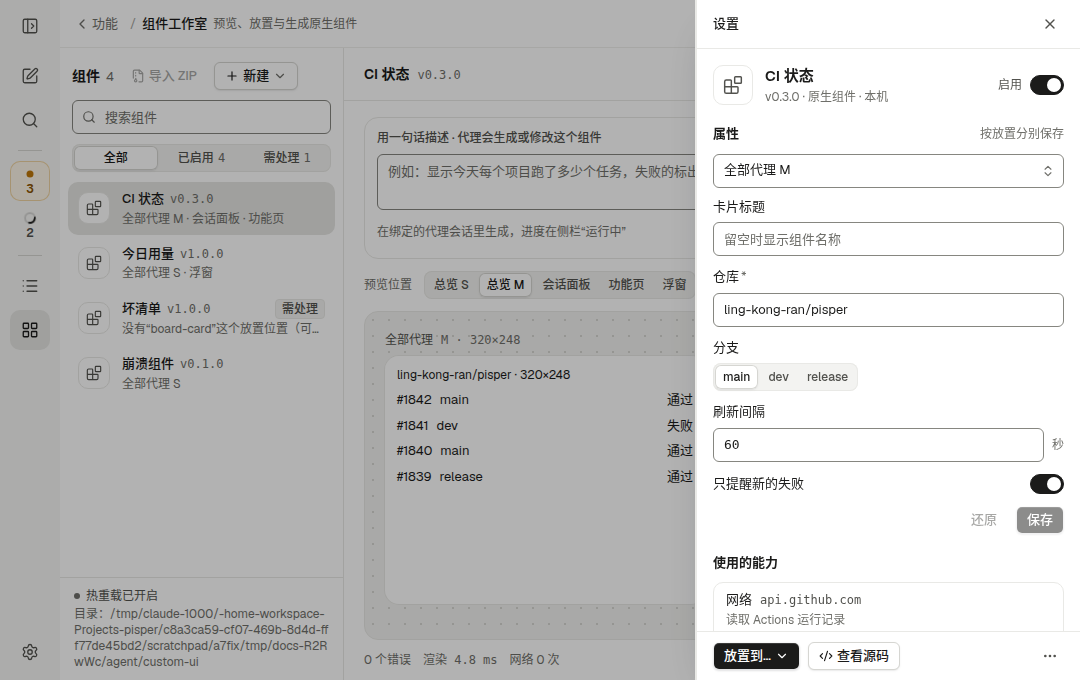
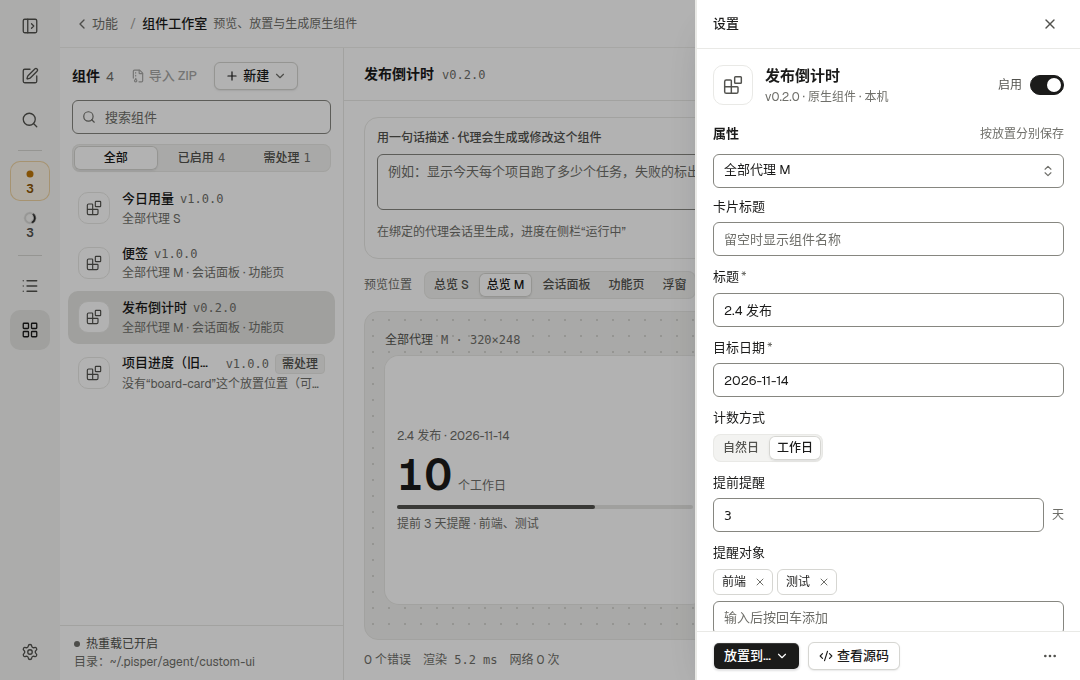
docs(design): A7 实现截图与对照页
目的
- 给 A7（原生组件核心闭环）补齐评审用的实现截图，对照页写清与规格 / 计划的差异、要等 A8 的部分和替负责人做的决定。

范围
- docs/design/built/：16 张 a7-*.png（工作室 1440 明 / 暗、1080 抽屉、新建菜单与模板、属性表单字段校验、旧格式组件；全部代理右栏 S / M 明 / 暗、1080“组件 N”弹层、检查器组件标签、功能 › 我的组件、功能页整页、浮窗；手机组件列表 / 详情 / 全部代理末尾组件卡）。
  - 拍法：生产构建 dist + 隔离 Runtime（临时数据目录，结束删除）+ 虚构数据，headless Chromium、1x、zh-CN、不替换 HOME。今日用量、便签由内置模板生成；发布倒计时是为属性表单写的虚构组件；组件目录一行在浏览器边界改写为示例路径 ~/.pisper/agent/custom-ui。
  - 删除（git rm）a7-fix 时拍的 9 张旧名截图（a7-overview-1440-light / dark、a7-overview-1080-popover-light、a7-session-panel-1440-light、a7-feature-page-1440-light、a7-phone-list / detail / overview-end-light、a7-studio-bad-manifest-1440-light）：已由新名截图取代，且其中带有本机临时目录路径与真实仓库名。同名的 3 张（studio-1440 明 / 暗、1080 抽屉）重拍覆盖。
- docs/design/index.html：
  - “方向 A · A7 已实现（组件核心闭环）”一节重写：拍法说明、三组效果图 / 设计稿与实现对照、规格定的差异（琥珀只标这些）、规格修订清单、要等 A8 的（导入信任确认、版本回滚、导出、能力台账、回收站恢复）、截图时发现的已知问题、替负责人做的决定。
  - 原“组件工作室”规划一节改为折叠的“已被取代：第 5 期组件工作室规划（A7 取代）”，过时说法在折叠区内注明 A7 的实际做法。
  - 页首与 A2 / A3 / A4 / A6 各节里“等 A7”的说明改为“A7 已做”；进度表 A7 为“已完成（本地）”。

验证
- 所有图片引用（src / data-full）存在，built/ 下没有未引用的 a7 图；section / details / div / ul / figure 标签配平；git diff --check 通过；docs 在 .prettierignore 中。
- 截图脚本无页面错误；脚本断言：模板创建与 9 个实例 201、旧 iframe 组件已移进回收站且列表里没有、属性越界被 Runtime 拒绝并显示“超出允许的范围”。
- 前置：npm run build 通过（entry static JS 304.30 kB gzip，预算 307.2 未放宽）；同批的修复提交 0a683359 跑过 npm run check、npm test（3071 项，3069 通过、0 失败、2 跳过）、test:components:ui（通过）。
- 未运行：纯文档提交不跑全量构建以外的检查；完整 test:ui、真机未运行。

风险
- 无运行时影响。截图约 1.9 MB。浮窗默认位置压住会话页发送按钮、检查器“+”被挤出可视区两项已知问题写在对照页，未在本提交修。
[…]

diff --git a/docs/design/index.html b/docs/design/index.html
@@ -133,9 +133,9 @@ dialog .bar button { font: inherit; color: #fff; background: rgb(255 255 255 / .
 <body>
 <div class="wrap">
   <header>
-    <div class="eyebrow">PISPER 界面重建 · 2026-10-31 · 方向 A 实施中（A1–A3 已完成）</div>
+    <div class="eyebrow">PISPER 界面重建 · 2026-10-31 · 方向 A 实施中（A1–A7 已完成，本地）</div>
     <h1>Pisper 整体设计</h1>
-    <p class="lede">界面设计评审用，不随 Pages 发布。最上面是整体重设计的四个方向（已选 A · Claude 式侧栏）；接着是方向 A 已经做出来的部分（A1+A2、A3、A4、A5、A6），效果图与实现并排；第 1–4 期的桌面截图、A1+A2 时期的看板泳道、A3 时的功能页与设置主区、第 4 期手机外壳收进“已被取代”的折叠区，组件一节在 A7 之前仍按原样。设计稿只作视觉参考，和规格冲突时以规格为准。点任意截图看大图。</p>
+    <p class="lede">界面设计评审用，不随 Pages 发布。最上面是整体重设计的四个方向（已选 A · Claude 式侧栏）；接着是方向 A 已经做出来的部分（A1+A2、A3、A4、A5、A6、A7），效果图与实现并排；第 1–4 期的桌面截图、A1+A2 时期的看板泳道、A3 时的功能页与设置主区、第 4 期手机外壳、A7 之前的组件规划收进“已被取代”的折叠区。设计稿只作视觉参考，和规格冲突时以规格为准。点任意截图看大图。</p>
     <div class="legend"><span>文件夹：drafts/ 设计稿（drafts/redesign/ 是四个新方向），built/ 已实现截图（a12- 开头是方向 A 的 A1+A2，a3- 开头是 A3）</span><span><span class="sw"></span>琥珀底的条目：按你的决定和设计稿不一样的地方</span></div>
   </header>
 
@@ -447,7 +447,7 @@ dialog .bar button { font: inherit; color: #fff; background: rgb(255 255 255 / .
     <ul class="notes">
       <li>“排队”分组和托盘里的排队行：要 Runtime 的 <code>sessionQueue</code>（A9）。</li>
       <li>“代理在问你 · 2 个问题”卡片和侧栏的“2 个问题”：要 <code>askUser</code>（A5）。</li>
-      <li>“思考 6.2s ›”与导出：要 Runtime 的思考用时与导出能力（A9）。检查器里的“覆盖率”组件标签：A7。</li>
+      <li>“思考 6.2s ›”与导出：要 Runtime 的思考用时与导出能力（A9）。检查器里的组件标签：A7 已做（“覆盖率”只是效果图里的示例组件，不内置）。</li>
       <li>品牌标记沿用现有的 ✦ 图标，效果图的紫色 P 只是出图时的占位。</li>
     </ul>
     <h3>替你做的决定（待你确认，完整列表见 decisions.md）</h3>
@@ -523,12 +523,12 @@ dialog .bar button { font: inherit; color: #fff; background: rgb(255 255 255 / .
     </ul>
     <h3>效果图里有、要等后面几期的</h3>
     <ul class="notes">
-      <li>右侧“已放置的组件”卡片和 1080–1279 宽时页头的“组件 N”按钮：A7（布局位置已留好）。</li>
+      <li>右侧“已放置的组件”卡片和 1080–1279 宽时页头的“组件 N”按钮：A7 已做，见“方向 A · A7 已实现”。</li>
       <li>“排队”分组、“升级 Vite 到 7 · 排队 #1”与“立即开始”：要 Runtime 的 <code>sessionQueue</code>（A9）；没有这个能力时不显示分组，不做假数据。</li>
       <li>“批准 · 2 个问题”、行内选项胶囊与逐个处理里的“1–4 回答”：要 <code>askUser</code>（A5）。</li>
       <li>设置主区内容（默认模型 / 思考强度 / 提供方列表、去掉重复的面包屑与大标题）：已在 A6 完成，见下方“A6 已实现”；效果图里的“辅助模型”Runtime 没有对应字段，没有做。</li>
       <li>功能页模板（居中 760 栏、“‹ 功能”在标题上方、工具行、列表行）：已在 A6 完成，见下方“A6 已实现”。</li>
-      <li>手机：“更多”改名“功能”、抽屉取代底部标签栏、手机全部代理：A4。“我的组件”里的实际放置：A7。</li>
+      <li>手机：“更多”改名“功能”、抽屉取代底部标签栏、手机全部代理：A4。“我的组件”里的实际放置：A7 已做。</li>
     </ul>
     <h3>替你做的决定（待你确认，完整列表见 decisions.md）</h3>
     <ul class="notes">
@@ -597,21 +597,24 @@ dialog .bar button { font: inherit; color: #fff; background: rgb(255 255 255 / .
 
   <section aria-labelledby="comp-h">
     <div class="sec-head">
-      <h2 id="comp-h">组件工作室</h2>
-      <p class="lede">一句话让代理生成或修改组件，预览放置位置，管理能力与版本。</p>
+      <h2 id="comp-h">已被取代：第 5 期组件工作室规划（A7 取代）</h2>
+      <p class="lede">A7 之前的组件规划与设计稿，只留作对照；其中几条在实施时被负责人改过（旧组件处置、放置名、入口），现状见下面“方向 A · A7 已实现”。设计稿仍在 A7 一节里与实现并排。</p>
     </div>
+    <details>
+      <summary>展开第 5 期的组件规划与设计稿（A7 前）</summary>
     <div class="shots">
       <figure><button type="button" data-full="drafts/desktop-components-light.png" aria-label="放大：组件工作室设计稿"><img src="drafts/desktop-components-light.png" alt="组件工作室设计稿：左侧组件列表、中间预览、右侧属性与版本" loading="lazy"></button>
-        <figcaption><span class="chip draft">设计稿</span>A7 / A8 实现（原第 5 期）</figcaption></figure>
+        <figcaption><span class="chip draft">设计稿</span>组件工作室（A7 / A8 的依据）</figcaption></figure>
     </div>
     <ul class="notes">
-      <li>三栏工作室是 A7 / A8（原第 5 期）；第 4 期只保证手机上组件是“列表 → 详情”两级可用。</li>
+      <li>三栏工作室是 A7 / A8（原第 5 期）；第 4 期只保证手机上组件是“列表 → 详情”两级可用。A7 已做三栏与手机列表 → 详情。</li>
       <li class="change">组件分两期：A7（原 5a）跑通“描述 → 代理生成 → 预览 → 填属性 → 放置”，A8（原 5b）做导入信任确认、能力撤销、版本回滚、导出与回收站。</li>
-      <li class="change">旧的 iframe 组件机制整体删除，内置“专注岛”一并删除；已安装的旧组件文件不自动删，工作室里标“旧版 · 已不再支持”，只能删除。</li>
+      <li class="change">旧的 iframe 组件机制整体删除，内置“专注岛”一并删除。当时写的是“旧组件文件不自动删，工作室标‘旧版 · 已不再支持’”；A7 实施时负责人改为启动时把旧组件原样移进回收站，界面不再出现“旧版”行。</li>
       <li class="change">“新建”可以从空白开始，也可以从内置模板“今日用量”“便签”开始；模板只生成到工作室，不自动放到任何位置。看板上没放组件时不留空位。</li>
-      <li class="change">组件不固定在看板：看板、会话面板、更多页面、浮窗四种位置平级，新组件不自动放到任何地方，工作室没有“固定到看板”主按钮。</li>
+      <li class="change">组件不固定在看板：当时写的四种位置是看板、会话面板、更多页面、浮窗，A7 按 v2 定名为全部代理右栏（overview-card）、会话面板、功能 › 我的组件（feature-page）、浮窗；新组件不自动放到任何地方，工作室没有“固定到看板”主按钮。</li>
       <li class="change">手机上“组件”不再占底部标签，挪进“更多”。桌面标题栏退役后，“组件”入口在“功能”页磁贴与 <kbd>⌘K</kbd>，A3 移到“扩展 › 组件工作室”。</li>
     </ul>
+    </details>
   </section>
 
   <section aria-labelledby="dir-a4-built-h">
@@ -669,7 +672,7 @@ dialog .bar button { font: inherit; color: #fff; background: rgb(255 255 255 / .
     </ul>
     <h3>效果图里有、要等后面几期的</h3>
     <ul class="notes">
-      <li>“2 个问题”与选项胶囊、提问底部表单：A5。排队分组与“#1”：A9。会话菜单“导出”：A9。全部代理末尾的组件卡：A7。</li>
+      <li>“2 个问题”与选项胶囊、提问底部表单：A5。排队分组与“#1”：A9。会话菜单“导出”：A9。全部代理末尾的组件卡：A7 已做。</li>
       <li>会话顶栏右侧效果图是带角标的改动图标，实现一致；没有改动时那里是 ✎ 新任务。</li>
     </ul>
     <h3>替你做的决定（待你确认，完整列表见 decisions.md）</h3>
@@ -878,7 +881,7 @@ dialog .bar button { font: inherit; color: #fff; background: rgb(255 255 255 / .
     <h3>效果图里有、要等后面几期的</h3>
     <ul class="notes">
       <li>设置 › 模型的“辅助模型”一行：Runtime 没有生成标题 / 压缩上下文用的模型字段，不做假控件；要等 Runtime 加字段（未排期）。</li>
-      <li>组件工作室与“我的组件”整页仍用旧的共享页头：A7 重做组件时一起换。</li>
+      <li>组件工作室与“我的组件”整页仍用旧的共享页头：A7 已换成面包屑页头（“功能 / 组件工作室”“功能 / 我的组件”），手机详情的“‹ 功能”与“‹ 全部组件”两级返回留到共享页头退役。</li>
       <li>表单与对话框里的提交失败提示（AppError，约 40 处）仍是红字：留给 A9 或专门一批统一。</li>
       <li>定时任务离开页面时的未保存拦截：留给专门一批（收起 / 换行已经不丢草稿）。</li>
     </ul>
@@ -896,63 +899,97 @@ dialog .bar button { font: inherit; color: #fff; background: rgb(255 255 255 / .
 
   <section aria-labelledby="dir-a7-built-h">
     <div class="sec-head">
-      <h2 id="dir-a7-built-h">方向 A · A7 已实现（原生组件核心闭环）</h2>
-      <p class="lede">描述 → 代理生成 → 预览 → 填属性 → 放置；四种放置平级：全部代理右栏、会话面板、功能 › 我的组件、浮窗。旧 iframe 机制与专注岛已删除。</p>
+      <h2 id="dir-a7-built-h">方向 A · A7 已实现（组件核心闭环）</h2>
+      <p class="lede">描述 → 代理生成 → 预览 → 填属性 → 放置；四种放置平级：全部代理右栏、会话面板、功能 › 我的组件、浮窗。旧 iframe 机制与专注岛已删除。拍法：生产构建 + 隔离 Runtime + 虚构数据，headless Chromium、1x、zh-CN，桌面 1440 × 900 / 1080 × 680、手机 390 × 844（模拟手机 App，不是真机）。“今日用量”“便签”用内置模板生成，“发布倒计时”是为属性表单写的虚构组件；组件目录一行显示的是示例路径 <code>~/.pisper/agent/custom-ui</code>（截图时在浏览器边界改写，不暴露本机路径）。</p>
     </div>
     <h3>组件工作室</h3>
     <div class="shots pairs">
-      <figure><button type="button" data-full="drafts/desktop-components-light.png" aria-label="放大：组件工作室设计稿"><img src="drafts/desktop-components-light.png" alt="组件工作室设计稿：左侧组件列表、中间预览、右侧属性与版本" loading="lazy"></button>
+      <figure><button type="button" data-full="drafts/desktop-components-light.png" aria-label="放大：组件工作室设计稿：左侧组件列表、中间预览、右侧属性与版本"><img src="drafts/desktop-components-light.png" alt="组件工作室设计稿：左侧组件列表、中间预览、右侧属性与版本" loading="lazy"></button>
         <figcaption><span class="chip draft">设计稿</span>组件工作室</figcaption></figure>
-      <figure><button type="button" data-full="built/a7-studio-1440-light.png" aria-label="放大：实现：工作室 1440：进入时侧栏收成窄轨，284 组件库 | 工作台（提示词卡片、预览栏、1:1 预览框 320×248、状态栏）| 372 设置栏（属性表单、使用的能力、放置位置）"><img src="built/a7-studio-1440-light.png" alt="实现：工作室 1440：进入时侧栏收成窄轨，284 组件库 | 工作台（提示词卡片、预览栏、1:1 预览框 320×248、状态栏）| 372 设置栏（属性表单、使用的能力、放置位置）" loading="lazy"></button>
+      <figure><button type="button" data-full="built/a7-studio-1440-light.png" aria-label="放大：实现：工作室 1440：进入时侧栏收成窄轨；284 组件库（今日用量、便签来自内置模板，发布倒计时是虚构组件，旧格式组件标“需处理”）| 工作台（提示词卡片、预览栏、1:1 预览框 320×248、状态栏）| 372 设置栏（按放置分别保存的属性、使用的能力、吸底 [放置到… ▾] [查看源码]）"><img src="built/a7-studio-1440-light.png" alt="实现：工作室 1440：进入时侧栏收成窄轨；284 组件库（今日用量、便签来自内置模板，发布倒计时是虚构组件，旧格式组件标“需处理”）| 工作台（提示词卡片、预览栏、1:1 预览框 320×248、状态栏）| 372 设置栏（按放置分别保存的属性、使用的能力、吸底 [放置到… ▾] [查看源码]）" loading="lazy"></button>
         <figcaption><span class="chip built">已实现 · A7</span>1440 三栏，预览与卡片 1:1</figcaption></figure>
+      <figure><button type="button" data-full="drafts/desktop-components-dark.png" aria-label="放大：组件工作室设计稿（深色）"><img src="drafts/desktop-components-dark.png" alt="组件工作室设计稿（深色）" loading="lazy"></button>
+        <figcaption><span class="chip draft">设计稿</span>组件工作室（深色）</figcaption></figure>
       <figure><button type="button" data-full="built/a7-studio-1440-dark.png" aria-label="放大：实现：工作室（深色）"><img src="built/a7-studio-1440-dark.png" alt="实现：工作室（深色）" loading="lazy"></button>
         <figcaption><span class="chip built">已实现 · A7</span>工作室（深色）</figcaption></figure>
+      <figure><button type="button" data-full="built/a7-studio-new-light.png" aria-label="放大：实现：[新建 ▾]：空白组件… / 从模板开始：今日用量、便签；模板只建到工作室，不自动放到任何位置"><img src="built/a7-studio-new-light.png" alt="实现：[新建 ▾]：空白组件… / 从模板开始：今日用量、便签；模板只建到工作室，不自动放到任何位置" loading="lazy"></button>
+        <figcaption><span class="chip built">已实现 · A7</span>新建菜单与模板</figcaption></figure>
+      <figure><button type="button" data-full="built/a7-studio-props-light.png" aria-label="放大：实现：属性表单：字符串、分段（enum ≤4 项）、带单位的整数、标签（字符串数组）、开关；“提前提醒”填 45 超出 1–30，Runtime 拒绝并定位到字段“超出允许的范围”，[还原] [保存] 可用"><img src="built/a7-studio-props-light.png" alt="实现：属性表单：字符串、分段（enum ≤4 项）、带单位的整数、标签（字符串数组）、开关；“提前提醒”填 45 超出 1–30，Runtime 拒绝并定位到字段“超出允许的范围”，[还原] [保存] 可用" loading="lazy"></button>
+        <figcaption><span class="chip built">已实现 · A7</span>属性表单（Runtime 校验定位到字段）</figcaption></figure>
       <figure><button type="button" data-full="built/a7-studio-1080-drawer-light.png" aria-label="放大：实现：1080：设置栏改为右侧抽屉，[放置到… ▾] 与 [查看源码] 在抽屉底部；关闭后焦点回到 [设置]"><img src="built/a7-studio-1080-drawer-light.png" alt="实现：1080：设置栏改为右侧抽屉，[放置到… ▾] 与 [查看源码] 在抽屉底部；关闭后焦点回到 [设置]" loading="lazy"></button>
         <figcaption><span class="chip built">已实现 · A7</span>1080 设置抽屉</figcaption></figure>
-      <figure><button type="button" data-full="built/a7-studio-bad-manifest-1440-light.png" aria-label="放大：实现：manifest 写了旧放置名 board-card：列表行与错误清单显示中文说明“没有“board-card”这个放置位置（可选 …）”，不再是原始错误码"><img src="built/a7-studio-bad-manifest-1440-light.png" alt="实现：manifest 写了旧放置名 board-card：列表行与错误清单显示中文说明“没有“board-card”这个放置位置（可选 …）”，不再是原始错误码" loading="lazy"></button>
-        <figcaption><span class="chip built">已实现 · A7</span>坏 manifest 的中文说明</figcaption></figure>
+      <figure><button type="button" data-full="built/a7-legacy-component-light.png" aria-label="放大：实现：旧格式组件：manifest 还写着 v2 之前的放置名 board-card，列表标“需处理”，工作台与设置栏是中文说明“没有“board-card”这个放置位置（可选 …）”，预览区“组件暂时无法运行”；同一数据目录里的 iframe 旧组件“旧版天气”启动时已原样移进回收站，列表里没有它"><img src="built/a7-legacy-component-light.png" alt="实现：旧格式组件：manifest 还写着 v2 之前的放置名 board-card，列表标“需处理”，工作台与设置栏是中文说明“没有“board-card”这个放置位置（可选 …）”，预览区“组件暂时无法运行”；同一数据目录里的 iframe 旧组件“旧版天气”启动时已原样移进回收站，列表里没有它" loading="lazy"></button>
+        <figcaption><span class="chip built">已实现 · A7</span>旧格式组件与旧版组件</figcaption></figure>
     </div>
     <h3>四种放置</h3>
     <div class="shots pairs">
       <figure><button type="button" data-full="drafts/redesign/claude-sidebar/desktop-overview-light.png" aria-label="放大：效果图：全部代理"><img src="drafts/redesign/claude-sidebar/desktop-overview-light.png" alt="效果图：全部代理" loading="lazy"></button>
         <figcaption><span class="chip draft">效果图</span>全部代理</figcaption></figure>
-      <figure><button type="button" data-full="built/a7-overview-1440-light.png" aria-label="放大：实现：全部代理 1440：右侧 320 组件栏“已放置的组件”，卡片头由宿主画（名称 · 组件 · ⋯），内容区 M 320×248 / S 320×120；崩溃组件原位隔离；浮窗默认停在右下角，不压需要你的第一行"><img src="built/a7-overview-1440-light.png" alt="实现：全部代理 1440：右侧 320 组件栏“已放置的组件”，卡片头由宿主画（名称 · 组件 · ⋯），内容区 M 320×248 / S 320×120；崩溃组件原位隔离；浮窗默认停在右下角，不压需要你的第一行" loading="lazy"></button>
-        <figcaption><span class="chip built">已实现 · A7</span>全部代理右栏（浮窗在右下角）</figcaption></figure>
-      <figure><button type="button" data-full="built/a7-overview-1440-dark.png" aria-label="放大：实现：全部代理右栏（深色）"><img src="built/a7-overview-1440-dark.png" alt="实现：全部代理右栏（深色）" loading="lazy"></button>
+      <figure><button type="button" data-full="built/a7-overview-cards-1440-light.png" aria-label="放大：实现：全部代理 1440：右侧 320 栏“已放置的组件”：发布倒计时 M、今日用量 S、便签 M（可多实例），卡片头由宿主画（名称 · 组件 · ⋯），内容区 M 320×248 / S 320×120，列尾虚线“+ 放置组件”"><img src="built/a7-overview-cards-1440-light.png" alt="实现：全部代理 1440：右侧 320 栏“已放置的组件”：发布倒计时 M、今日用量 S、便签 M（可多实例），卡片头由宿主画（名称 · 组件 · ⋯），内容区 M 320×248 / S 320×120，列尾虚线“+ 放置组件”" loading="lazy"></button>
+        <figcaption><span class="chip built">已实现 · A7</span>全部代理右栏 S / M 组件卡</figcaption></figure>
+      <figure><button type="button" data-full="built/a7-overview-cards-1440-dark.png" aria-label="放大：实现：全部代理右栏（深色）"><img src="built/a7-overview-cards-1440-dark.png" alt="实现：全部代理右栏（深色）" loading="lazy"></button>
         <figcaption><span class="chip built">已实现 · A7</span>全部代理右栏（深色）</figcaption></figure>
-      <figure><button type="button" data-full="built/a7-overview-1080-popover-light.png" aria-label="放大：实现：1080 × 680：组件收进页头“组件 3”弹层，卡片保持 36 + 内容区的高度，弹层内部滚动"><img src="built/a7-overview-1080-popover-light.png" alt="实现：1080 × 680：组件收进页头“组件 3”弹层，卡片保持 36 + 内容区的高度，弹层内部滚动" loading="lazy"></button>
-        <figcaption><span class="chip built">已实现 · A7</span>1080 “组件 N”弹层（可滚动）</figcaption></figure>
-      <figure><button type="button" data-full="built/a7-session-panel-1440-light.png" aria-label="放大：实现：会话检查器：固定标签后是组件标签“CI 状态”与“+”，组件拿到检查器宽度"><img src="built/a7-session-panel-1440-light.png" alt="实现：会话检查器：固定标签后是组件标签“CI 状态”与“+”，组件拿到检查器宽度" loading="lazy"></button>
-        <figcaption><span class="chip built">已实现 · A7</span>会话面板组件标签</figcaption></figure>
-      <figure><button type="button" data-full="built/a7-feature-page-1440-light.png" aria-label="放大：实现：功能 › 我的组件整页：面包屑“功能 / 我的组件”，工具条只有组件名与“管理组件”，不再叠第二个返回"><img src="built/a7-feature-page-1440-light.png" alt="实现：功能 › 我的组件整页：面包屑“功能 / 我的组件”，工具条只有组件名与“管理组件”，不再叠第二个返回" loading="lazy"></button>
+      <figure><button type="button" data-full="built/a7-overview-cards-1080-light.png" aria-label="放大：实现：1080 × 680：右栏收进页头“组件 3”弹层，宽 344、内部滚动，卡片保持卡片头 + 内容区的高度"><img src="built/a7-overview-cards-1080-light.png" alt="实现：1080 × 680：右栏收进页头“组件 3”弹层，宽 344、内部滚动，卡片保持卡片头 + 内容区的高度" loading="lazy"></button>
+        <figcaption><span class="chip built">已实现 · A7</span>1080 “组件 N”弹层</figcaption></figure>
+      <figure><button type="button" data-full="drafts/redesign/claude-sidebar/extra-session-inspector-rail-light.png" aria-label="放大：效果图：会话检查器"><img src="drafts/redesign/claude-sidebar/extra-session-inspector-rail-light.png" alt="效果图：会话检查器" loading="lazy"></button>
+        <figcaption><span class="chip draft">效果图</span>会话检查器</figcaption></figure>
+      <figure><button type="button" data-full="built/a7-inspector-component-tab-light.png" aria-label="放大：实现：会话检查器：固定标签（改动 / 终端 / 文件 / 预览）后是组件标签“发布倒计时”“便签”，选中的组件拿到检查器宽度；两枚组件标签时标签行末的“+”被挤出可视区（已知问题，见下）"><img src="built/a7-inspector-component-tab-light.png" alt="实现：会话检查器：固定标签（改动 / 终端 / 文件 / 预览）后是组件标签“发布倒计时”“便签”，选中的组件拿到检查器宽度；两枚组件标签时标签行末的“+”被挤出可视区（已知问题，见下）" loading="lazy"></button>
+        <figcaption><span class="chip built">已实现 · A7</span>检查器组件标签</figcaption></figure>
+      <figure><button type="button" data-full="drafts/redesign/claude-sidebar/extra-features-light.png" aria-label="放大：效果图：功能索引"><img src="drafts/redesign/claude-sidebar/extra-features-light.png" alt="效果图：功能索引" loading="lazy"></button>
+        <figcaption><span class="chip draft">效果图</span>功能索引</figcaption></figure>
+      <figure><button type="button" data-full="built/a7-features-my-components-light.png" aria-label="放大：实现：功能索引末尾“我的组件”：放到功能页的组件（发布倒计时、便签）各一张卡片，最后是虚线“+ 放置组件”"><img src="built/a7-features-my-components-light.png" alt="实现：功能索引末尾“我的组件”：放到功能页的组件（发布倒计时、便签）各一张卡片，最后是虚线“+ 放置组件”" loading="lazy"></button>
+        <figcaption><span class="chip built">已实现 · A7</span>功能 › 我的组件</figcaption></figure>
+      <figure><button type="button" data-full="built/a7-feature-page-component-light.png" aria-label="放大：实现：功能 › 我的组件整页：面包屑“功能 / 我的组件”，工具条只有组件名与“管理组件”，组件铺满主区"><img src="built/a7-feature-page-component-light.png" alt="实现：功能 › 我的组件整页：面包屑“功能 / 我的组件”，工具条只有组件名与“管理组件”，组件铺满主区" loading="lazy"></button>
         <figcaption><span class="chip built">已实现 · A7</span>功能页整页</figcaption></figure>
+      <figure><button type="button" data-full="built/a7-floating-light.png" aria-label="放大：实现：浮窗：今日用量 260×96 没有保存位置时停在右下角；在会话页它压住了输入框右端的模型选择与发送按钮（已知问题，见下；可拖开，位置按设备记住）"><img src="built/a7-floating-light.png" alt="实现：浮窗：今日用量 260×96 没有保存位置时停在右下角；在会话页它压住了输入框右端的模型选择与发送按钮（已知问题，见下；可拖开，位置按设备记住）" loading="lazy"></button>
+        <figcaption><span class="chip built">已实现 · A7</span>浮窗（默认右下角）</figcaption></figure>
     </div>
     <h3>手机（390）</h3>
-    <div class="shots pairs">
-      <figure><button type="button" data-full="built/a7-phone-list-light.png" aria-label="放大：实现：手机组件列表：一行一个组件，需处理的行有说明"><img src="built/a7-phone-list-light.png" alt="实现：手机组件列表：一行一个组件，需处理的行有说明" loading="lazy"></button>
+    <div class="shots phones">
+      <figure><button type="button" data-full="built/a7-phone-studio-list-light.png" aria-label="放大：实现：手机组件列表：一行一个组件（≥56），需处理的行有中文说明，底部是组件目录（示例路径）"><img src="built/a7-phone-studio-list-light.png" alt="实现：手机组件列表：一行一个组件（≥56），需处理的行有中文说明，底部是组件目录（示例路径）" loading="lazy"></button>
         <figcaption><span class="chip built">已实现 · A7</span>手机组件列表</figcaption></figure>
-      <figure><button type="button" data-full="built/a7-phone-detail-light.png" aria-label="放大：实现：手机详情：身份行 → 用提示词生成或修改 → 预览 → 属性 → 放置"><img src="built/a7-phone-detail-light.png" alt="实现：手机详情：身份行 → 用提示词生成或修改 → 预览 → 属性 → 放置" loading="lazy"></button>
+      <figure><button type="button" data-full="built/a7-phone-studio-detail-light.png" aria-label="放大：实现：手机详情：‹ 全部组件 → 身份行与启用 → 用提示词生成或修改 → 预览（放置切换，总览全宽）→ 属性 → 放置"><img src="built/a7-phone-studio-detail-light.png" alt="实现：手机详情：‹ 全部组件 → 身份行与启用 → 用提示词生成或修改 → 预览（放置切换，总览全宽）→ 属性 → 放置" loading="lazy"></button>
         <figcaption><span class="chip built">已实现 · A7</span>手机详情</figcaption></figure>
-      <figure><button type="button" data-full="built/a7-phone-overview-end-light.png" aria-label="放大：实现：手机全部代理：组件卡排在列表末尾，全宽；浮窗在手机上不显示"><img src="built/a7-phone-overview-end-light.png" alt="实现：手机全部代理：组件卡排在列表末尾，全宽；浮窗在手机上不显示" loading="lazy"></button>
-        <figcaption><span class="chip built">已实现 · A7</span>手机全部代理末尾</figcaption></figure>
+      <figure><button type="button" data-full="drafts/redesign/claude-sidebar/phone-overview-light.png" aria-label="放大：效果图：手机全部代理"><img src="drafts/redesign/claude-sidebar/phone-overview-light.png" alt="效果图：手机全部代理" loading="lazy"></button>
+        <figcaption><span class="chip draft">效果图</span>手机全部代理</figcaption></figure>
+      <figure><button type="button" data-full="built/a7-phone-overview-cards-light.png" aria-label="放大：实现：手机全部代理：组件卡排在列表与“全部历史会话 →”之后，全宽；浮窗在手机上不显示"><img src="built/a7-phone-overview-cards-light.png" alt="实现：手机全部代理：组件卡排在列表与“全部历史会话 →”之后，全宽；浮窗在手机上不显示" loading="lazy"></button>
+        <figcaption><span class="chip built">已实现 · A7</span>手机全部代理末尾的组件卡</figcaption></figure>
     </div>
     <h3>和效果图不一样，是规格定的</h3>
     <ul class="notes">
-      <li class="change">组件不固定在全部代理：四种放置平级，新组件不自动放到任何位置；全部代理只有放了组件才出现右栏（规格 5.5、3.4）。</li>
-      <li class="change">“编辑中 / 已热重载”用中性灰；琥珀只表示需要你（规格 5.1、6.1）。崩溃行的失败圆点也是中性灰。</li>
-      <li class="change">旧 iframe 组件与专注岛整体删除，已安装的旧组件启动时原样移进回收站（负责人决定）。</li>
+      <li class="change">组件不固定在全部代理：四种放置平级，新组件不自动放到任何位置；全部代理只有放了组件才出现右栏，1080–1279 收进页头“组件 N”，手机排在列表末尾（规格 5.5、3.4、7.3）。</li>
+      <li class="change">放置名按 v2：overview-card（S 320×120 / M 320×248，可多实例）与 feature-page；旧名 board-card / more-page 不兼容，manifest 写了就报中文说明（规格 5.5）。</li>
+      <li class="change">“编辑中 / 已热重载”与错误卡、崩溃圆点、“需处理”徽标都用中性色；琥珀只表示需要你（规格 5.1、6.1）。</li>
+      <li class="change">工作室进入时应用侧栏收成窄轨，右侧设置栏在页面宽 &lt;1360（约窗口 &lt;1440）时改为抽屉（规格 5.1，负责人决定）。</li>
     </ul>
-    <h3>效果图里有、要等后面几期的</h3>
+    <h3>和规格 / 计划的差异（规格修订清单，待你确认）</h3>
     <ul class="notes">
-      <li>A8：导入暂存与信任确认、版本列表与回滚、导出 ZIP、能力台账与撤销、回收站恢复。</li>
-      <li>提示词卡片结果行的“v3 已生成 · 写入 … · 18s”、改动文件芯片、“基于 vN”与模型芯片；预览区交叉淡入与热重载圆点脉冲（A8 / A9）。</li>
+      <li>旧组件：规格 5.10 写“旧组件文件不自动删除”，负责人改为启动时一次性原样移进回收站 <code>custom-ui-trash/</code>（文件不抹掉，A8 才有恢复界面）；旧 iframe 路由给 410 兼容桩（规格 8.6 原写“不删除任何 Runtime 代码”）。</li>
+      <li>模块地址是路径 <code>/r/:rev/</code> 而不是 <code>module.js?rev=</code>；版本快照放在组件目录外 <code>custom-ui-versions/</code>（避免热重载循环）；渲染计时用提交哨兵（生产包没有 React Profiler）。</li>
+      <li>提示词卡片结果行是看板泳道状态 + [打开会话]，没有“v3 已生成 · 写入 … · 18s”、改动文件芯片、“基于 vN”与模型芯片；预览区交叉淡入与“已热重载”圆点脉冲没做；工作室只预览选中的放置位置，不并排预览会话面板标签与通知样式。</li>
+      <li>htm 的许可证是 Apache-2.0（规格写 MIT），原文与第三方声明已入库；手机“组件”入口在 功能 › 扩展 › 组件工作室（规格 2.7 / 7.1 的标签栏已在 A4 退役）。</li>
+    </ul>
+    <h3>要等 A8 的</h3>
+    <ul class="notes">
+      <li>导入：暂存与信任确认（现在 [导入 ZIP] 置灰，<code>POST /import</code> 一律结构化拒绝、不写文件）。</li>
+      <li>版本列表与回滚（错误卡“回滚到 vN”）、导出 ZIP、能力调用台账与 [撤销]、回收站 7 天清理与恢复界面（启动迁移移进去的旧组件也在那里）。</li>
+      <li>真实模型跑一次完整生成（技能展开 + component_create 写入 + 热重载）：冒烟拦截了 <code>/api/chat</code>，只验证了消息形状与会话归属。</li>
+    </ul>
+    <h3>已知问题（截图时发现）</h3>
+    <ul class="notes">
+      <li>浮窗默认位置（右下角）在会话页压住输入框的模型选择与发送按钮，在放了组件的全部代理压住右栏底部；可拖开，拖过的位置按设备记住。默认位置怎么避开输入区留给下一批（组件内容区以外没有通用的“避让区”）。</li>
+      <li>检查器 456 宽、两枚组件标签时，标签行末尾的“+”被挤到可视区外（只露出边缘），要先收起检查器里的固定标签或拖宽检查器才点得到。</li>
+      <li>已修：SDK 文档与内置模板写的 <code>var(--color-content-muted)</code> 等是 Tailwind 的编译期别名，运行时不存在，组件里的辅助文字退回了正文颜色；改为运行时变量 <code>--text-muted</code> 等，并加了契约测试（截图已是修复后的效果）。</li>
     </ul>
     <h3>替你做的决定（待你确认，完整列表见 decisions.md）</h3>
     <ul class="notes">
-      <li>没有保存位置的浮窗默认停在右下角、向上叠；组件工作室里浮窗层隐藏（实例仍挂着，离开工作室原样出现），工作室用自己的浮窗预览档位。</li>
-      <li>预览框描边不占布局，组件在工作室拿到的尺寸与全部代理卡片 1:1；手机预览是全宽，只标尺寸档。</li>
-      <li>安全模式哨兵在初始加载的 3 秒内正常刷新或关窗时同步清掉，不再误报“上次加载组件时页面可能卡死”；询问只在启动时有哨兵才懒加载。</li>
-      <li>[生成] 键位提示随平台：macOS “Cmd + Enter”，其余 “Ctrl + Enter”（与侧栏同一个格式化）。</li>
+      <li>旧组件迁移只跑一次：全部移动成功才写 <code>custom-ui-migrations.json</code>；之后手放进来的旧格式目录 API 照样返回、界面不展示，坏目录在工作室可见可删。</li>
+      <li>总览卡片尺寸指组件内容区（工作室预览框 1:1），宿主画的卡片头 36（触屏 48）在上方；卡片 ⋯ 是 设置 / 在工作室打开 / 换个位置 ▸ / 移出全部代理，S/M 只在工作室磁贴里改，卡片拖动排序没做。</li>
+      <li>工作室的选中组件、预览档位、筛选只在页面内存，不新增偏好键；预览用选中的放置实例（属性、存储都是它的），没有实例时用“预览属性（不保存）”。</li>
+      <li>绑定会话名固定为“生成组件 · 名称”，消息首行 <code>/skill:pisper-component</code> 只在会话为空时加；会话正在运行时再点生成会排队，不打断；[让代理修复] 带“消息 + 调用栈前 1 KB”。</li>
+      <li>浮窗没有保存位置时停在右下角、向上叠；组件工作室里浮窗层隐藏（实例仍挂着）。浮窗关闭 = 实例停用，工作室磁贴可重新打开。</li>
+      <li>安全模式：初始加载阶段正常刷新 / 关窗会同步清哨兵；询问只在启动时有哨兵且有已启用实例才懒加载；桌面“以安全模式重启”推迟到 A8（原 5b，负责人决定）。</li>
+      <li>[生成] 键位提示随平台：macOS “Cmd + Enter”，其余 “Ctrl + Enter”；错误码一律有中文 / 英文静态文案，不显示原始码。</li>
     </ul>
   </section>
 
@@ -969,7 +1006,7 @@ dialog .bar button { font: inherit; color: #fff; background: rgb(255 255 255 / .
       <div class="phase"><span class="n">A4</span><span class="what">手机与平板：顶栏 ☰ + 抽屉、全部代理卡片、会话菜单与芯片底部表单、设置列表 → 分区，删除手机标签栏、手机看板、代理条与 dockview</span><span class="chip built">已完成（本地）</span></div>
       <div class="phase"><span class="n">A5</span><span class="what">问题选项 ask_user：Runtime 工具、TUI、对话卡片、全部代理行内点选与侧栏</span><span class="chip built">已完成（本地）</span></div>
       <div class="phase"><span class="n">A6</span><span class="what">功能页模板（11 个功能页 + 设置六个分区）与浮层（⌘K、派发、引导、侧聊、会话树、配对），旧状态色与旧顶栏清理</span><span class="chip built">已完成（本地）</span></div>
-      <div class="phase"><span class="n">A7</span><span class="what">原生组件核心闭环：工作室三栏与手机列表 → 详情、四种放置宿主、代理生成与修复；删除旧 iframe 组件与专注岛</span><span class="chip built">已完成（本地）</span></div>
+      <div class="phase"><span class="n">A7</span><span class="what">原生组件核心闭环：工作室三栏与手机列表 → 详情、四种放置宿主（全部代理右栏、会话面板、功能 › 我的组件、浮窗）、代理生成与修复；删除旧 iframe 组件与专注岛</span><span class="chip built">已完成（本地）</span></div>
       <div class="phase"><span class="n">A8</span><span class="what">组件信任与生命周期：导入暂存与信任确认、版本回滚、导出、回收站</span><span class="chip">未开始</span></div>
       <div class="phase"><span class="n">A9</span><span class="what">收尾：排队、导出、思考用时、目录变更事件</span><span class="chip">未开始</span></div>
     </div>
